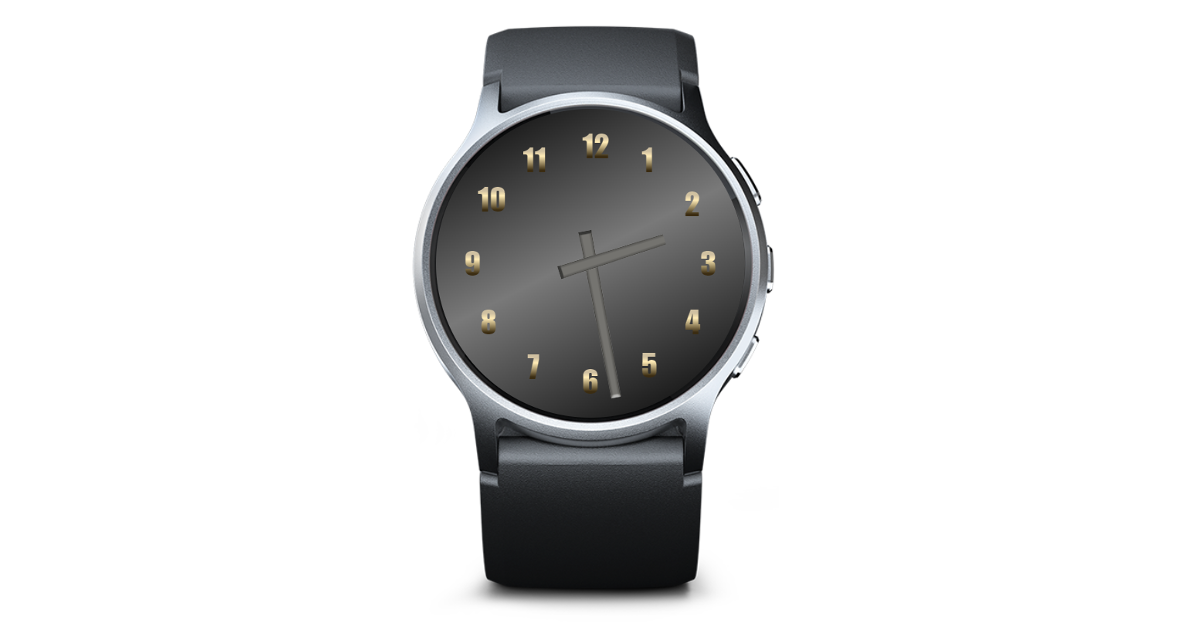
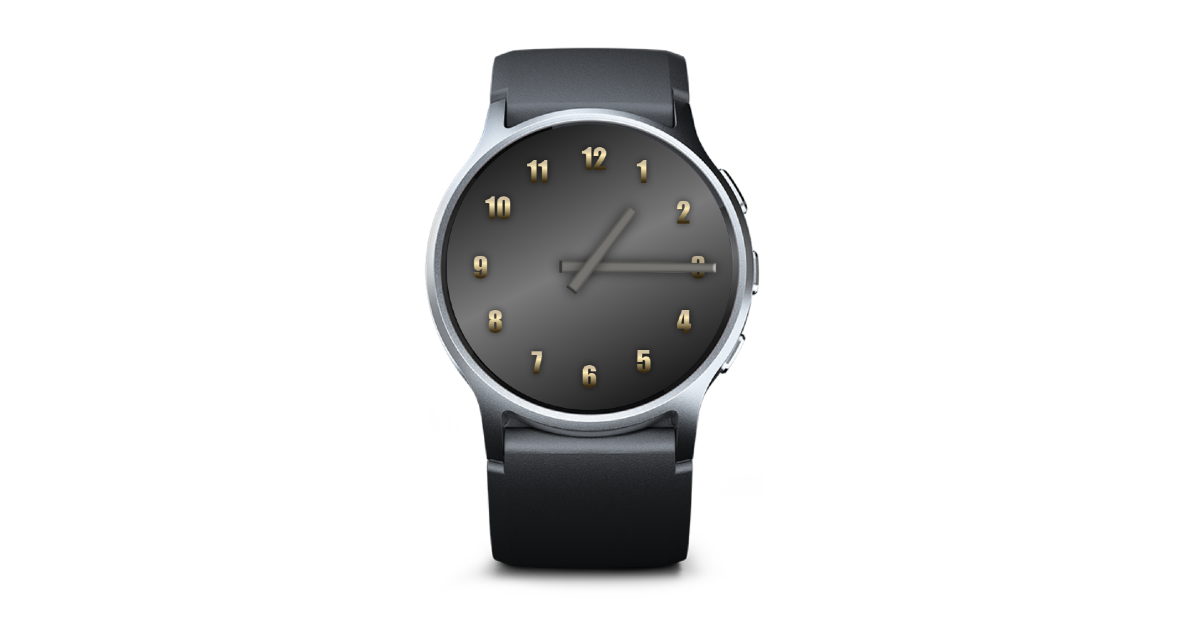
update demo.png

Changed region(s): [[0.3392, 0.0302, 0.6475, 0.9651], [0.4625, 0.3317, 0.5242, 0.4524]]

diff --git a/src/components/App/index.js b/src/components/App/index.js
@@ -5,7 +5,8 @@ function App() {
 
   return (
 
-    <Reloj hora = {horaActual} />
+    <Reloj hora = "1:15" />
+    // <Reloj hora = {horaActual} />
 
   );
 }
